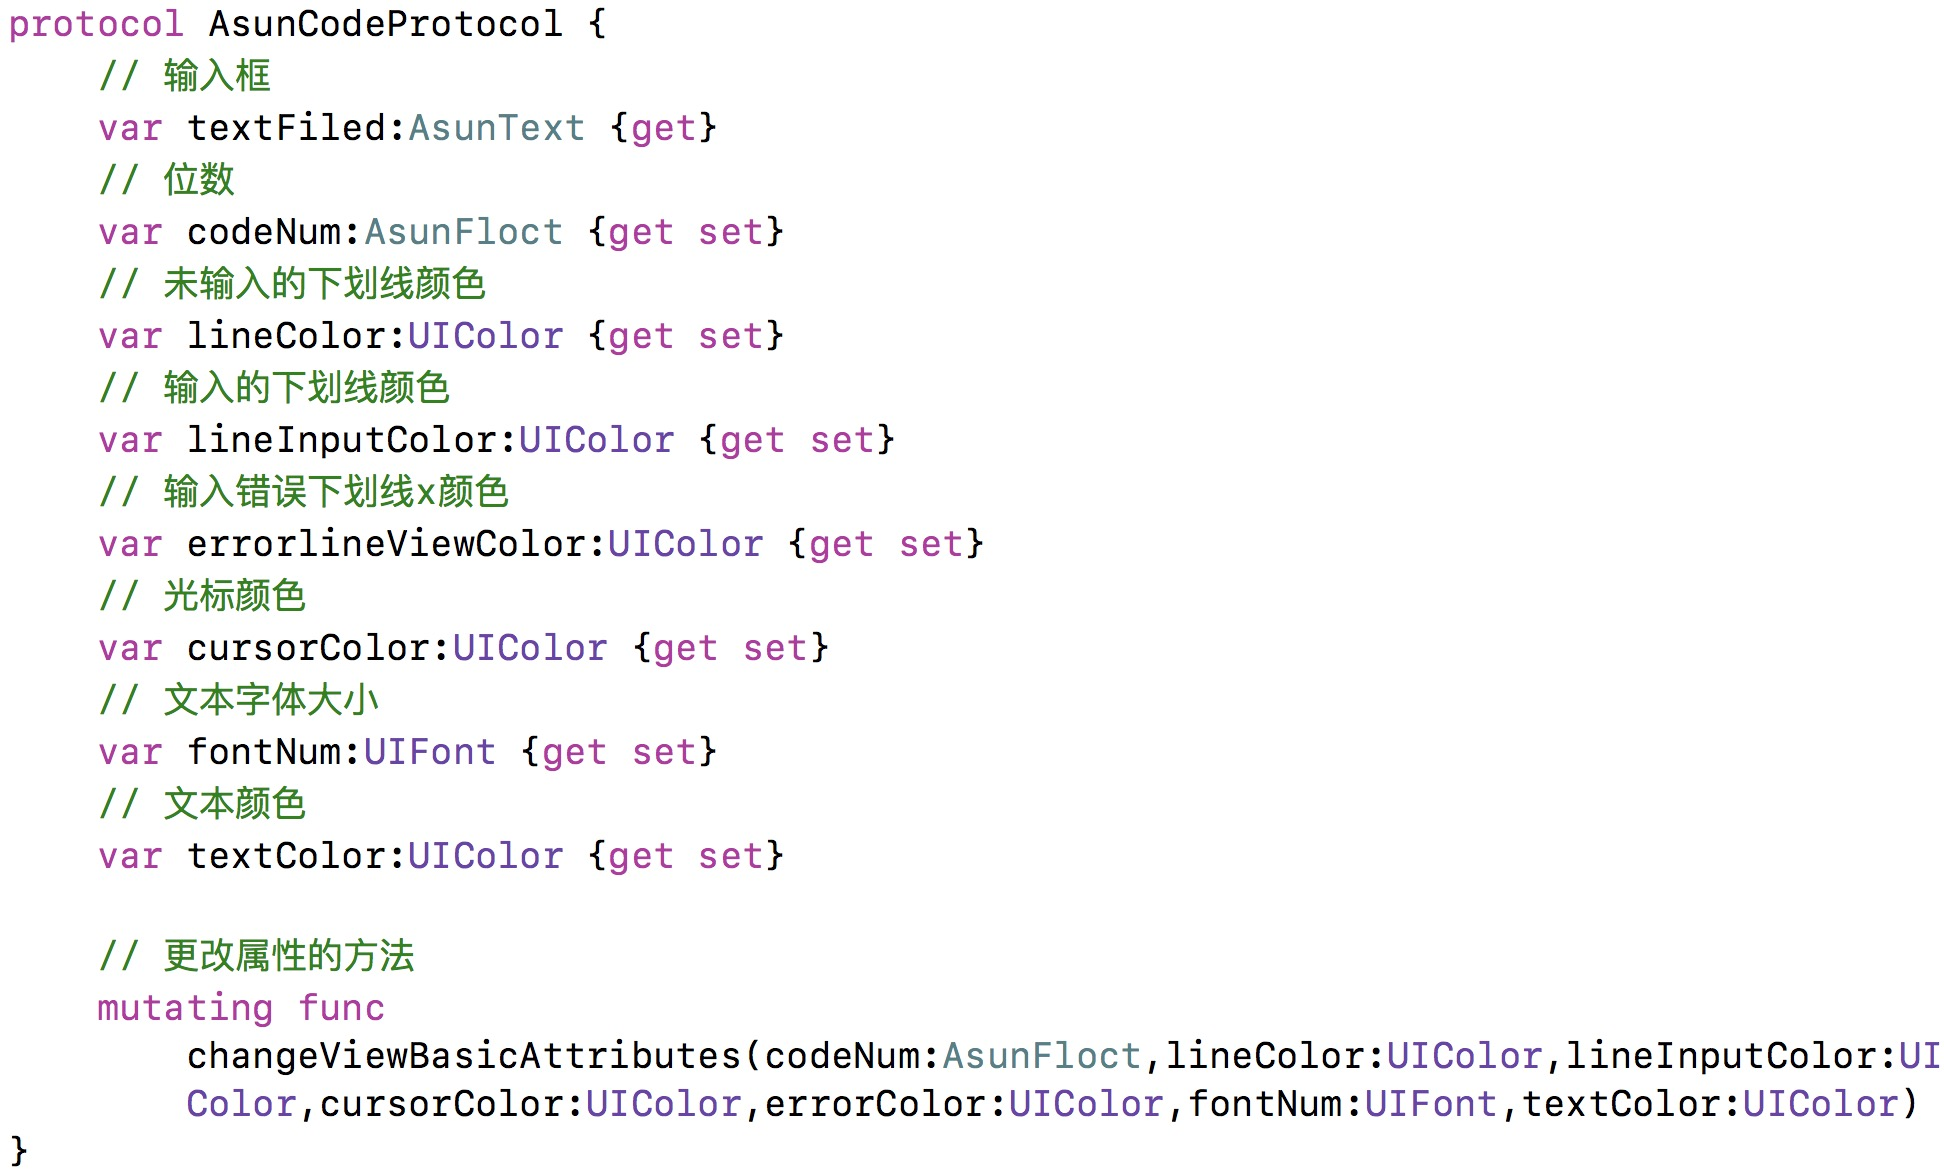
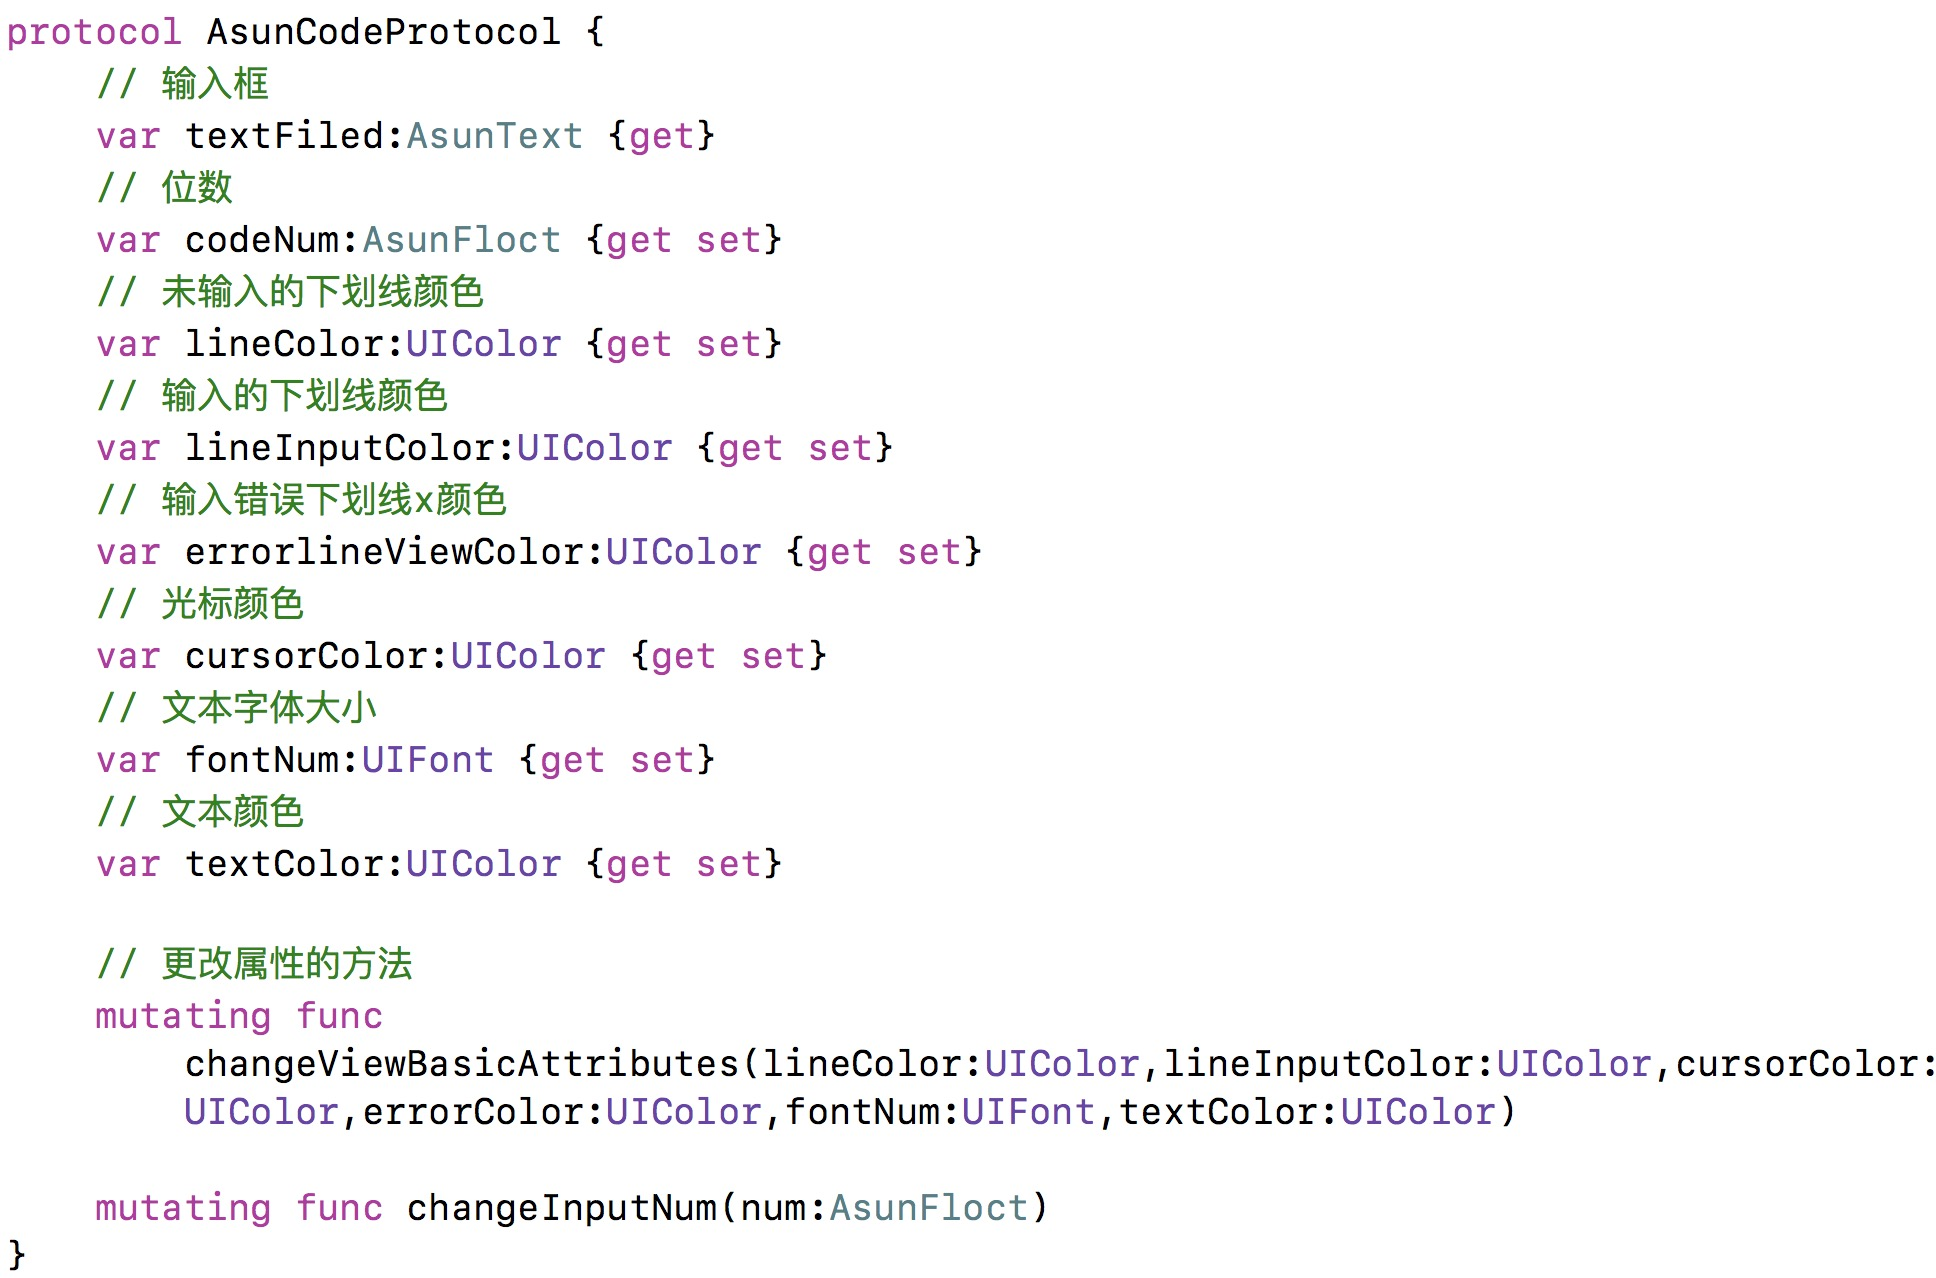
1.修复无法设置输入个数 2.结构体内添加单独设置个数方法 3.更改使用图片~

Changed region(s): [[0.0, 0.0, 1.0, 0.9796]]

diff --git a/VerificationCode/VerificationCode/CodeView.swift b/VerificationCode/VerificationCode/CodeView.swift
@@ -11,7 +11,6 @@ import UIKit
 enum Length: AsunFloct {
     case onceWidth  = 40  //横线宽度
     case onceHeight = 1 //横线高度
-    case spaceWidth = 10 //间隔宽度
 }
 
 class CodeView: UIView {
@@ -36,16 +35,17 @@ class CodeView: UIView {
     
     override init(frame: CGRect) {
         super.init(frame: frame)
-        creatTextView()
-        creatInputLabel()
-        creatLineView()
+        
     }
     
     required init?(coder aDecoder: NSCoder) {
         super.init(coder: aDecoder)
+    }
+    
+    override func layoutSubviews() {
         creatTextView()
-        creatLineView()
         creatInputLabel()
+        creatLineView()
     }
 }
 
@@ -67,9 +67,9 @@ extension CodeView {
     fileprivate func creatLineView() {
         for num in 0 ..< Int(Base.codeNum) {
             //表达式太长 拆分两步骤
-            let x = CGFloat(num)*Length.onceWidth.rawValue
-            let x1 = CGFloat(num)*(width-Base.codeNum*Length.onceWidth.rawValue)/(Base.codeNum-1)
-            let lineView = UIView(frame: CGRect(x: x+x1, y: height -  Length.onceHeight.rawValue, width: Length.onceWidth.rawValue, height: Length.onceHeight.rawValue))
+            let x = CGFloat(num)*40
+            let x1 = CGFloat(num)*(width-Base.codeNum*40)/(Base.codeNum-1)
+            let lineView = UIView(frame: CGRect(x: x+x1, y: height -  Length.onceHeight.rawValue, width: 40, height: 2))
             lineView.backgroundColor = Base.lineColor
             addSubview(lineView)
             lineArr.append(lineView)
@@ -127,7 +127,7 @@ extension CodeView {
                 })
                 for i in 0 ..< (self.textFiled.text?.count)! {
                     if i < self.lineArr.count {
-                          (self.lineArr[i] as UIView).backgroundColor = self.Base.lineInputColor
+                        (self.lineArr[i] as UIView).backgroundColor = self.Base.lineInputColor
                     }
                 }
             }
@@ -138,7 +138,7 @@ extension CodeView {
             }
             for i in 0 ..< (self.textFiled.text?.count)! {
                 if i < self.lineArr.count {
-                (self.lineArr[i] as UIView).backgroundColor = self.Base.lineInputColor
+                    (self.lineArr[i] as UIView).backgroundColor = self.Base.lineInputColor
                 }
             }
             

diff --git a/VerificationCode/VerificationCode/AsunBasicAttributes.swift b/VerificationCode/VerificationCode/AsunBasicAttributes.swift
@@ -30,12 +30,14 @@ protocol AsunCodeProtocol {
     var textColor:UIColor {get set}
     
     // 更改属性的方法
-    mutating func changeViewBasicAttributes(codeNum:AsunFloct,lineColor:UIColor,lineInputColor:UIColor,cursorColor:UIColor,errorColor:UIColor,fontNum:UIFont,textColor:UIColor)
+    mutating func changeViewBasicAttributes(lineColor:UIColor,lineInputColor:UIColor,cursorColor:UIColor,errorColor:UIColor,fontNum:UIFont,textColor:UIColor)
+    
+    mutating func changeInputNum(num:AsunFloct)
 }
 //属性默认值
 struct AsunBasicAttributes:AsunCodeProtocol {
     var textFiled: AsunText = UITextField()
-    var codeNum: AsunFloct = 4
+    var codeNum: AsunFloct = 0
     var lineColor: UIColor = UIColor.gray
     var lineInputColor: UIColor = UIColor.blue
     var errorlineViewColor: UIColor = UIColor.red
@@ -45,14 +47,16 @@ struct AsunBasicAttributes:AsunCodeProtocol {
 }
 
 extension AsunBasicAttributes {
-   mutating func changeViewBasicAttributes(codeNum: AsunFloct, lineColor: UIColor, lineInputColor: UIColor, cursorColor: UIColor, errorColor: UIColor, fontNum: UIFont, textColor: UIColor) {
-        self.codeNum = codeNum
+   mutating func changeViewBasicAttributes( lineColor: UIColor, lineInputColor: UIColor, cursorColor: UIColor, errorColor: UIColor, fontNum: UIFont, textColor: UIColor) {
         self.lineColor = lineColor
         self.lineInputColor = lineInputColor
         self.cursorColor = cursorColor
         self.fontNum = fontNum
         self.textColor = textColor
         self.errorlineViewColor = errorColor
+    }
+    mutating func changeInputNum(num: AsunFloct) {
+        self.codeNum = num
     }
 }
 

diff --git a/VerificationCode/VerificationCode/ViewController.swift b/VerificationCode/VerificationCode/ViewController.swift
@@ -13,11 +13,15 @@ class ViewController: UIViewController {
     override func viewDidLoad() {
         super.viewDidLoad()
         
-        let code = CodeView(frame: CGRect(x: 50, y: 100, width: self.view.frame.size.width - 63*2, height: 50))
+        let code = CodeView(frame: CGRect(x: 63, y: 100, width: self.view.frame.size.width - 63*2, height: 40))
         
         //Change Basic Attributes
         /*
          code.Base.changeViewBasicAttributes(codeNum: 4, lineColor: UIColor.blue, lineInputColor: UIColor.black, cursorColor: UIColor.red, errorColor: UIColor.red, fontNum: UIFont.systemFont(ofSize: 20), textColor: UIColor.black)
+        
+         or
+         
+        code.Base.changeInputNum(num: 4)
          */
         
         //To obtain Input Text
